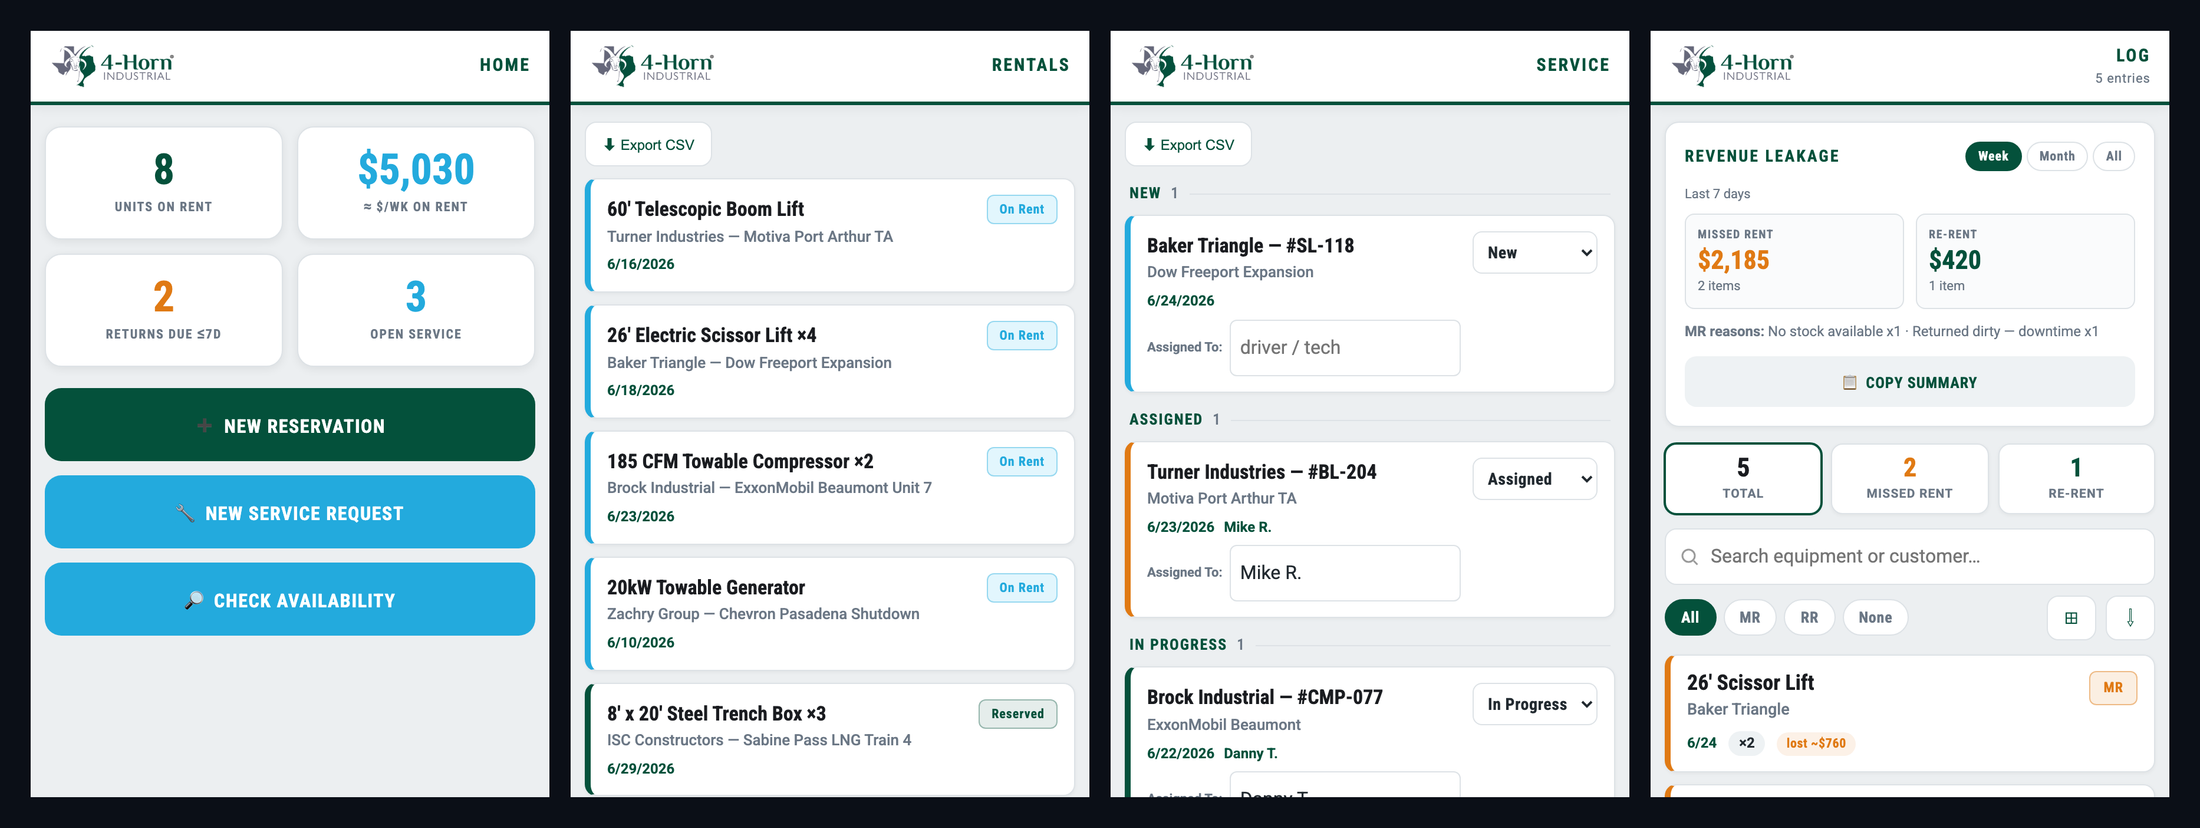
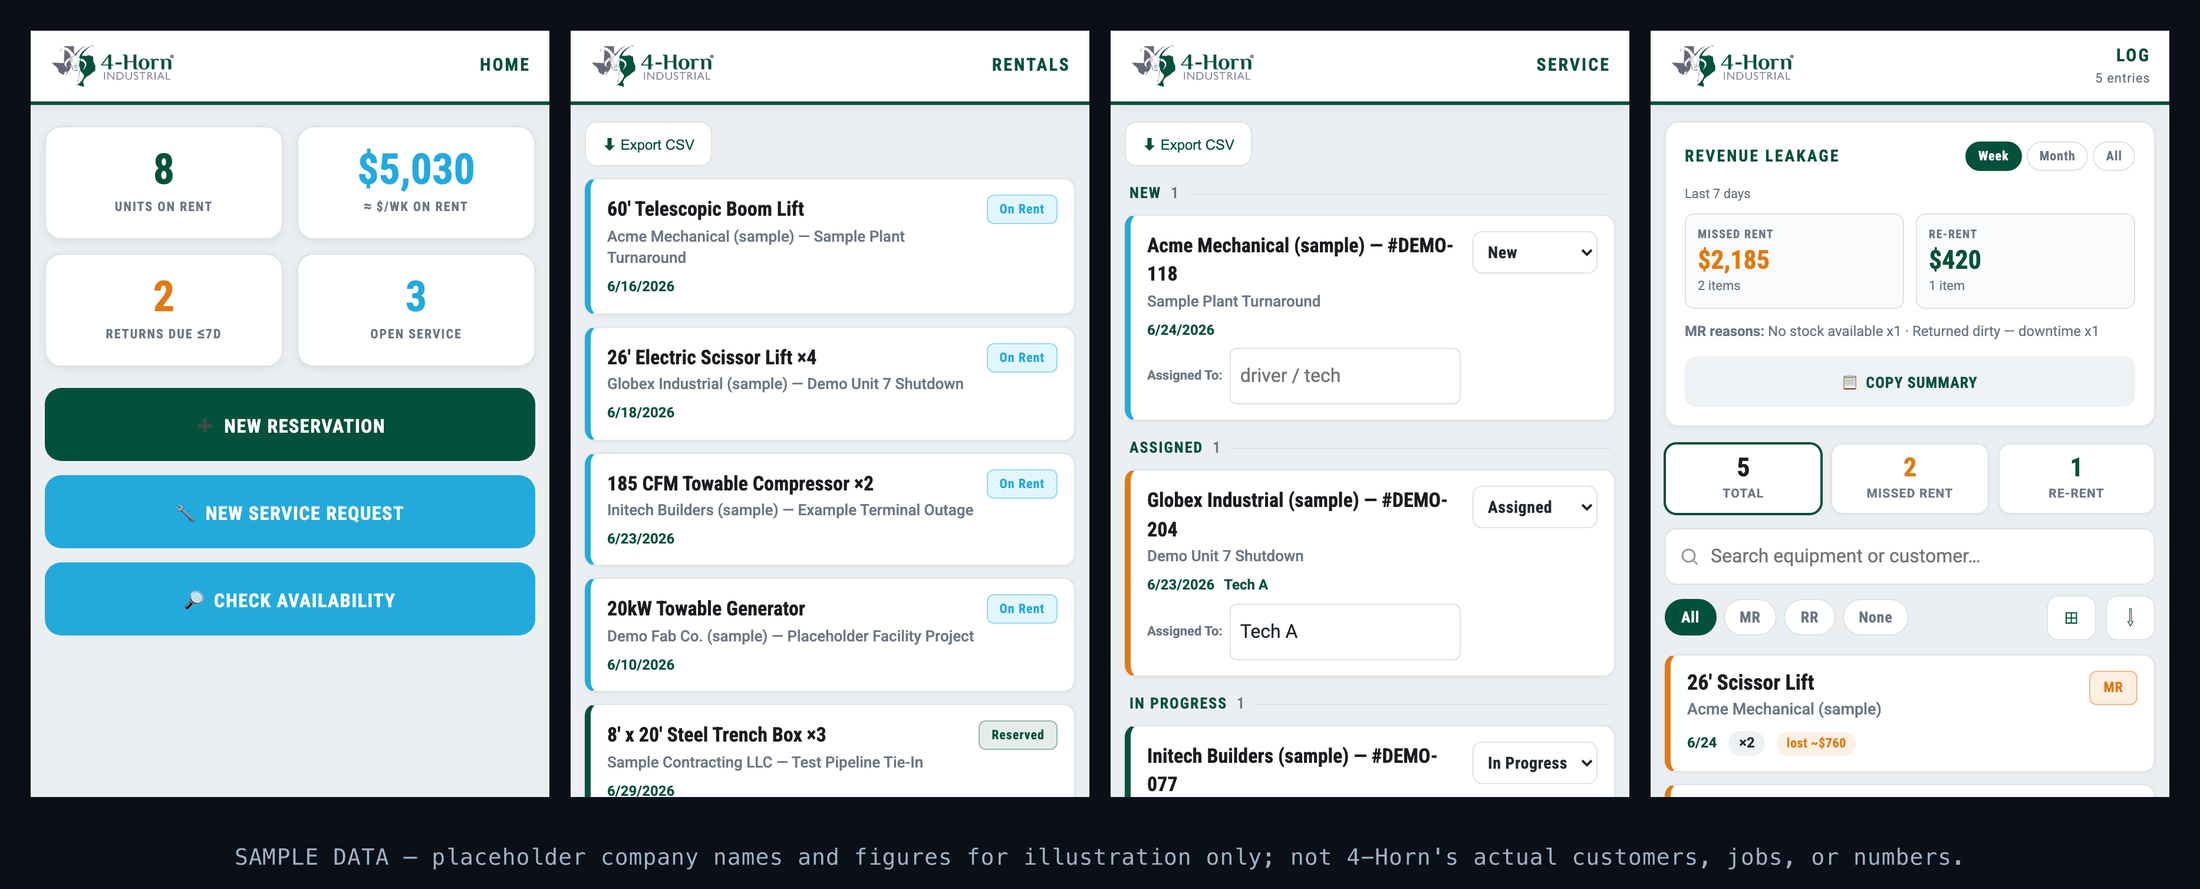
fix(site): make 4-Horn collage data evidently fake + add sample-data disclaimer
- Replace all sample company/job/contact names with obvious placeholders (Acme/Globex/Initech/Demo/Sample) — prior names (Baker Triangle, Turner, Zachry, refineries) were real firms
- Bake a 'SAMPLE DATA' disclaimer band into the collage image
- Add imageCaption field + render a disclaimer under the card image

diff --git a/src/components/Tools.tsx b/src/components/Tools.tsx
@@ -21,13 +21,20 @@ function ToolCard({ tool }: { tool: Tool }) {
       }`}
     >
       {tool.image && (
-        // eslint-disable-next-line @next/next/no-img-element
-        <img
-          src={tool.image}
-          alt={tool.imageAlt ?? `${tool.name} screenshot`}
-          loading="lazy"
-          className="mb-5 w-full rounded-lg border border-border"
-        />
+        <figure className="mb-5">
+          {/* eslint-disable-next-line @next/next/no-img-element */}
+          <img
+            src={tool.image}
+            alt={tool.imageAlt ?? `${tool.name} screenshot`}
+            loading="lazy"
+            className="w-full rounded-lg border border-border"
+          />
+          {tool.imageCaption && (
+            <figcaption className="mt-2 font-mono text-[0.65rem] leading-snug text-muted/70">
+              {tool.imageCaption}
+            </figcaption>
+          )}
+        </figure>
       )}
       <div className="flex items-start justify-between gap-4">
         <div className="flex items-center gap-3">

diff --git a/src/data/tools.ts b/src/data/tools.ts
@@ -23,6 +23,8 @@ export type Tool = {
   // Optional screenshot/cover shown at the top of the card (path under /public).
   image?: string;
   imageAlt?: string;
+  // Optional caption rendered directly under the image (e.g. a data disclaimer).
+  imageCaption?: string;
   // Optional links.
   liveUrl?: string;
   sourceUrl?: string;
@@ -75,6 +77,8 @@ export const tools: Tool[] = [
     image: "/builds/4horn.png",
     imageAlt:
       "Four screens of the 4-Horn Equipment Log app — the live dashboard (units and dollars on rent, returns due, open service), the rentals list, the service-request board, and the revenue-leakage tracker",
+    imageCaption:
+      "Screens shown use sample data — placeholder company names and figures for illustration only, not 4-Horn's actual customers, jobs, or numbers.",
   },
   {
     id: "wafergraph",